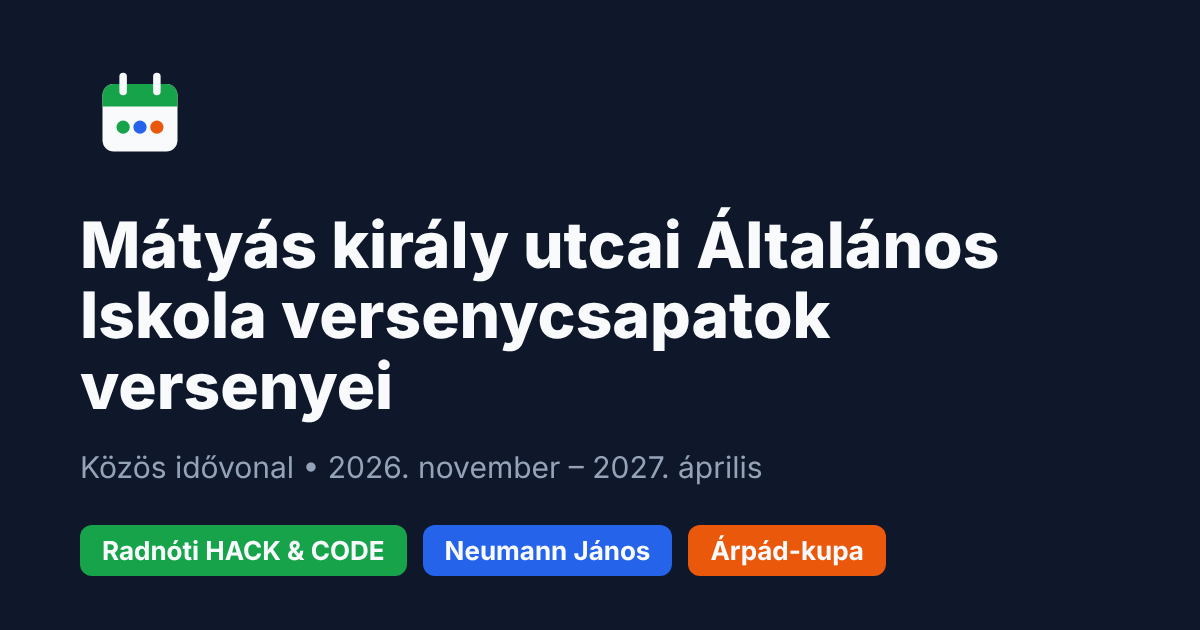
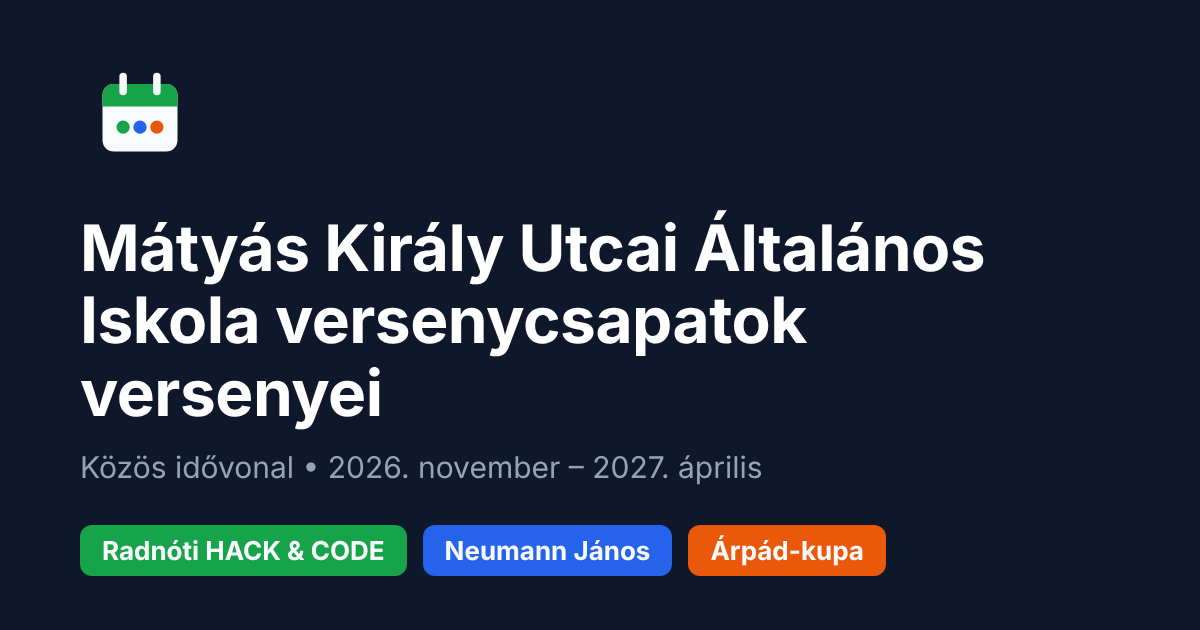
Az oldal címében Mátyás Király Utcai nagy kezdőbetűkkel (helyesírás), a megosztási kép is frissítve
Claude-Session: https://claude.ai/code/session_01QXBZW9saDvw4qoEV5cUHK5

Changed region(s): [[0.0617, 0.3317, 0.8325, 0.573], [0.0617, 0.573, 0.3392, 0.6937]]

diff --git a/index.html b/index.html
@@ -11,19 +11,19 @@
     <!-- Open Graph / közösségi megosztás -->
     <meta property="og:type" content="website">
     <meta property="og:locale" content="hu_HU">
-    <meta property="og:site_name" content="Mátyás király utcai Általános Iskola versenycsapatok versenyei">
-    <meta property="og:title" content="Mátyás király utcai Általános Iskola versenycsapatok versenyei">
+    <meta property="og:site_name" content="Mátyás Király Utcai Általános Iskola versenycsapatok versenyei">
+    <meta property="og:title" content="Mátyás Király Utcai Általános Iskola versenycsapatok versenyei">
     <meta property="og:description" content="Közös idővonal és teendők a Radnóti HACK &amp; CODE, a Neumann János Informatikai Verseny és az Árpád-kupa 2026/2027-es fordulóihoz.">
     <meta property="og:url" content="https://mathias-rex.github.io/2026-27-competitions/">
     <meta property="og:image" content="https://mathias-rex.github.io/2026-27-competitions/og-image.png">
     <meta property="og:image:width" content="1200">
     <meta property="og:image:height" content="630">
-    <meta property="og:image:alt" content="Mátyás király utcai Általános Iskola versenycsapatok versenyei">
+    <meta property="og:image:alt" content="Mátyás Király Utcai Általános Iskola versenycsapatok versenyei">
     <meta name="twitter:card" content="summary_large_image">
-    <meta name="twitter:title" content="Mátyás király utcai Általános Iskola versenycsapatok versenyei">
+    <meta name="twitter:title" content="Mátyás Király Utcai Általános Iskola versenycsapatok versenyei">
     <meta name="twitter:description" content="Közös idővonal és teendők a Radnóti HACK &amp; CODE, a Neumann János Informatikai Verseny és az Árpád-kupa 2026/2027-es fordulóihoz.">
     <meta name="twitter:image" content="https://mathias-rex.github.io/2026-27-competitions/og-image.png">
-    <title>Mátyás király utcai Általános Iskola versenycsapatok versenyei</title>
+    <title>Mátyás Király Utcai Általános Iskola versenycsapatok versenyei</title>
     <!-- Tailwind CSS betöltése -->
     <script>
         // Téma inicializálás renderelés előtt: localStorage → böngésző beállítás
@@ -57,7 +57,7 @@
                 </span>
                 <div class="min-w-0">
                     <h1 class="text-sm sm:text-base lg:text-lg font-extrabold tracking-tight text-slate-900 leading-tight">
-                        Mátyás király utcai Általános Iskola versenycsapatok versenyei
+                        Mátyás Király Utcai Általános Iskola versenycsapatok versenyei
                     </h1>
                     <p class="hidden sm:block text-[11px] text-slate-500 leading-tight">
                         2026. november – 2027. április
